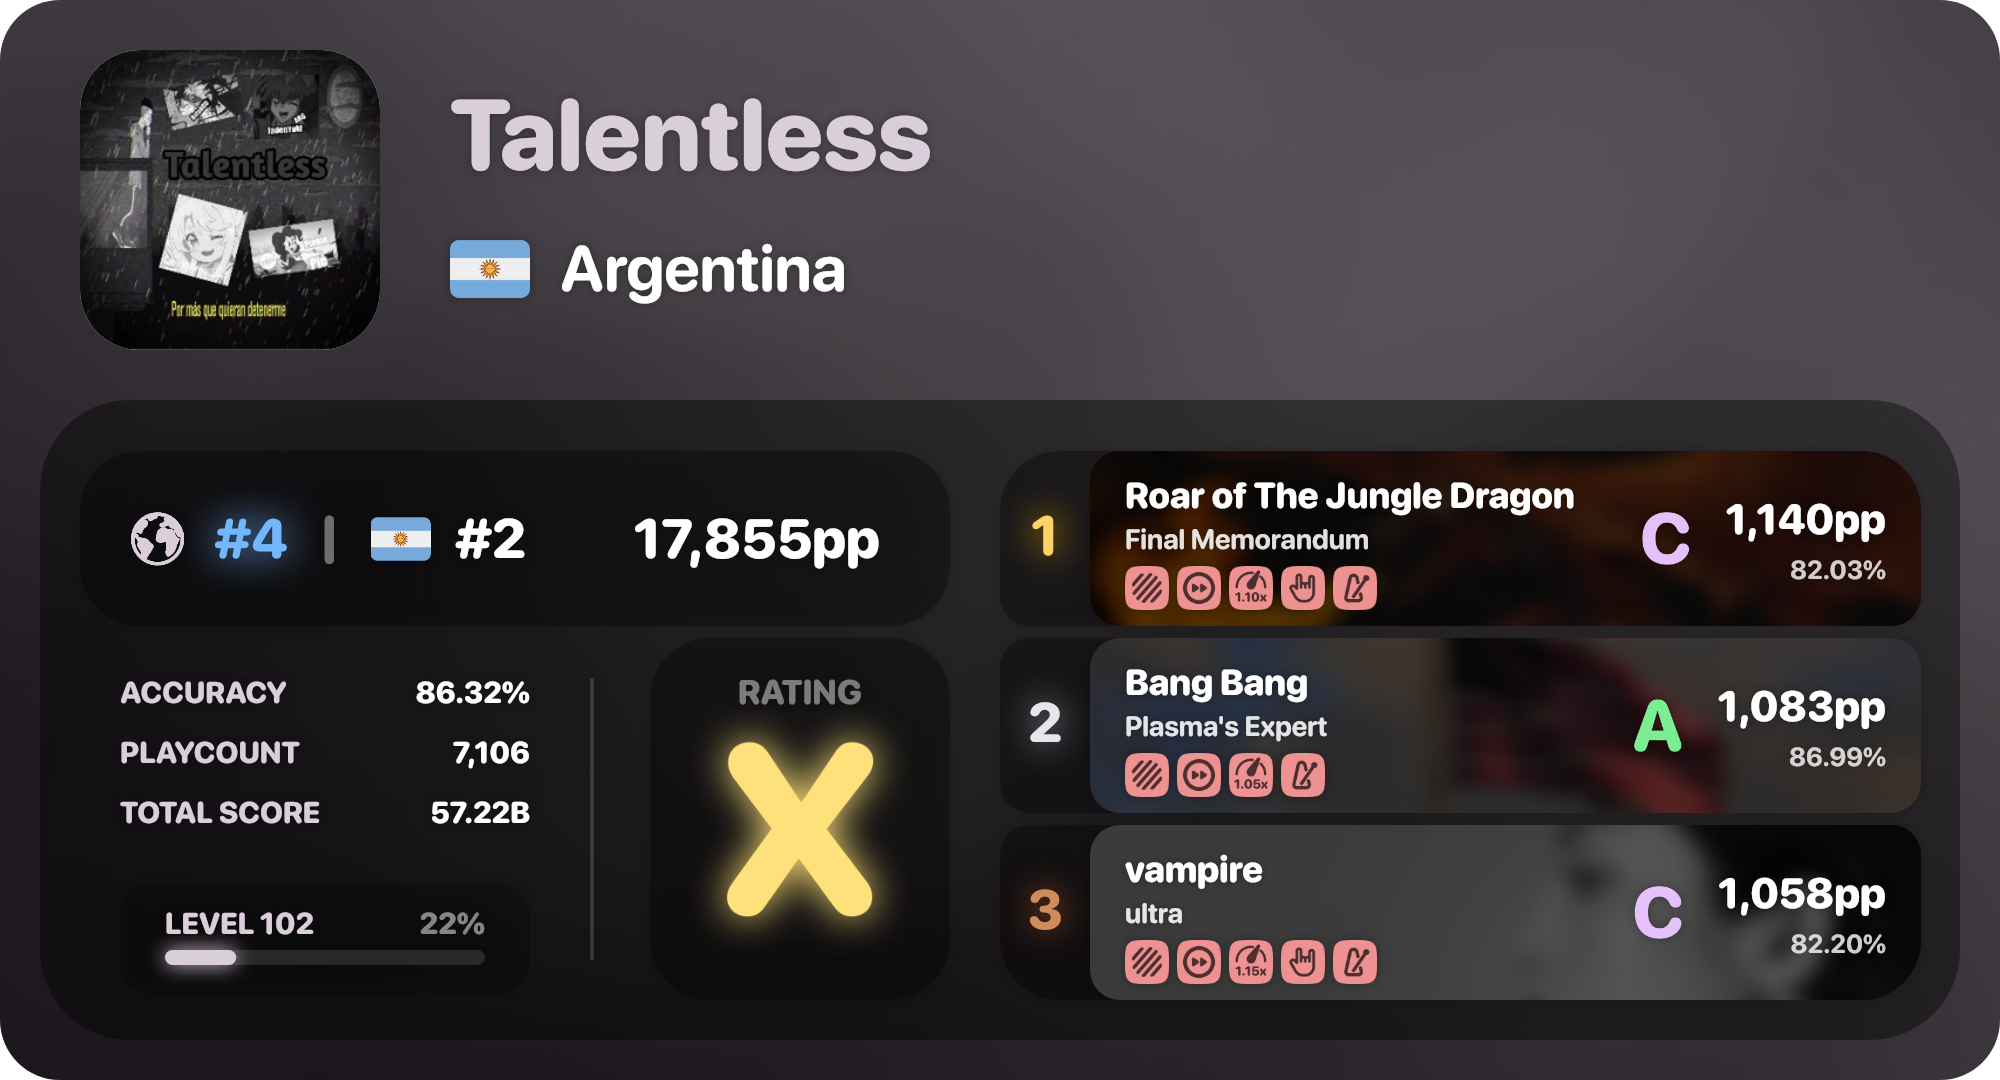
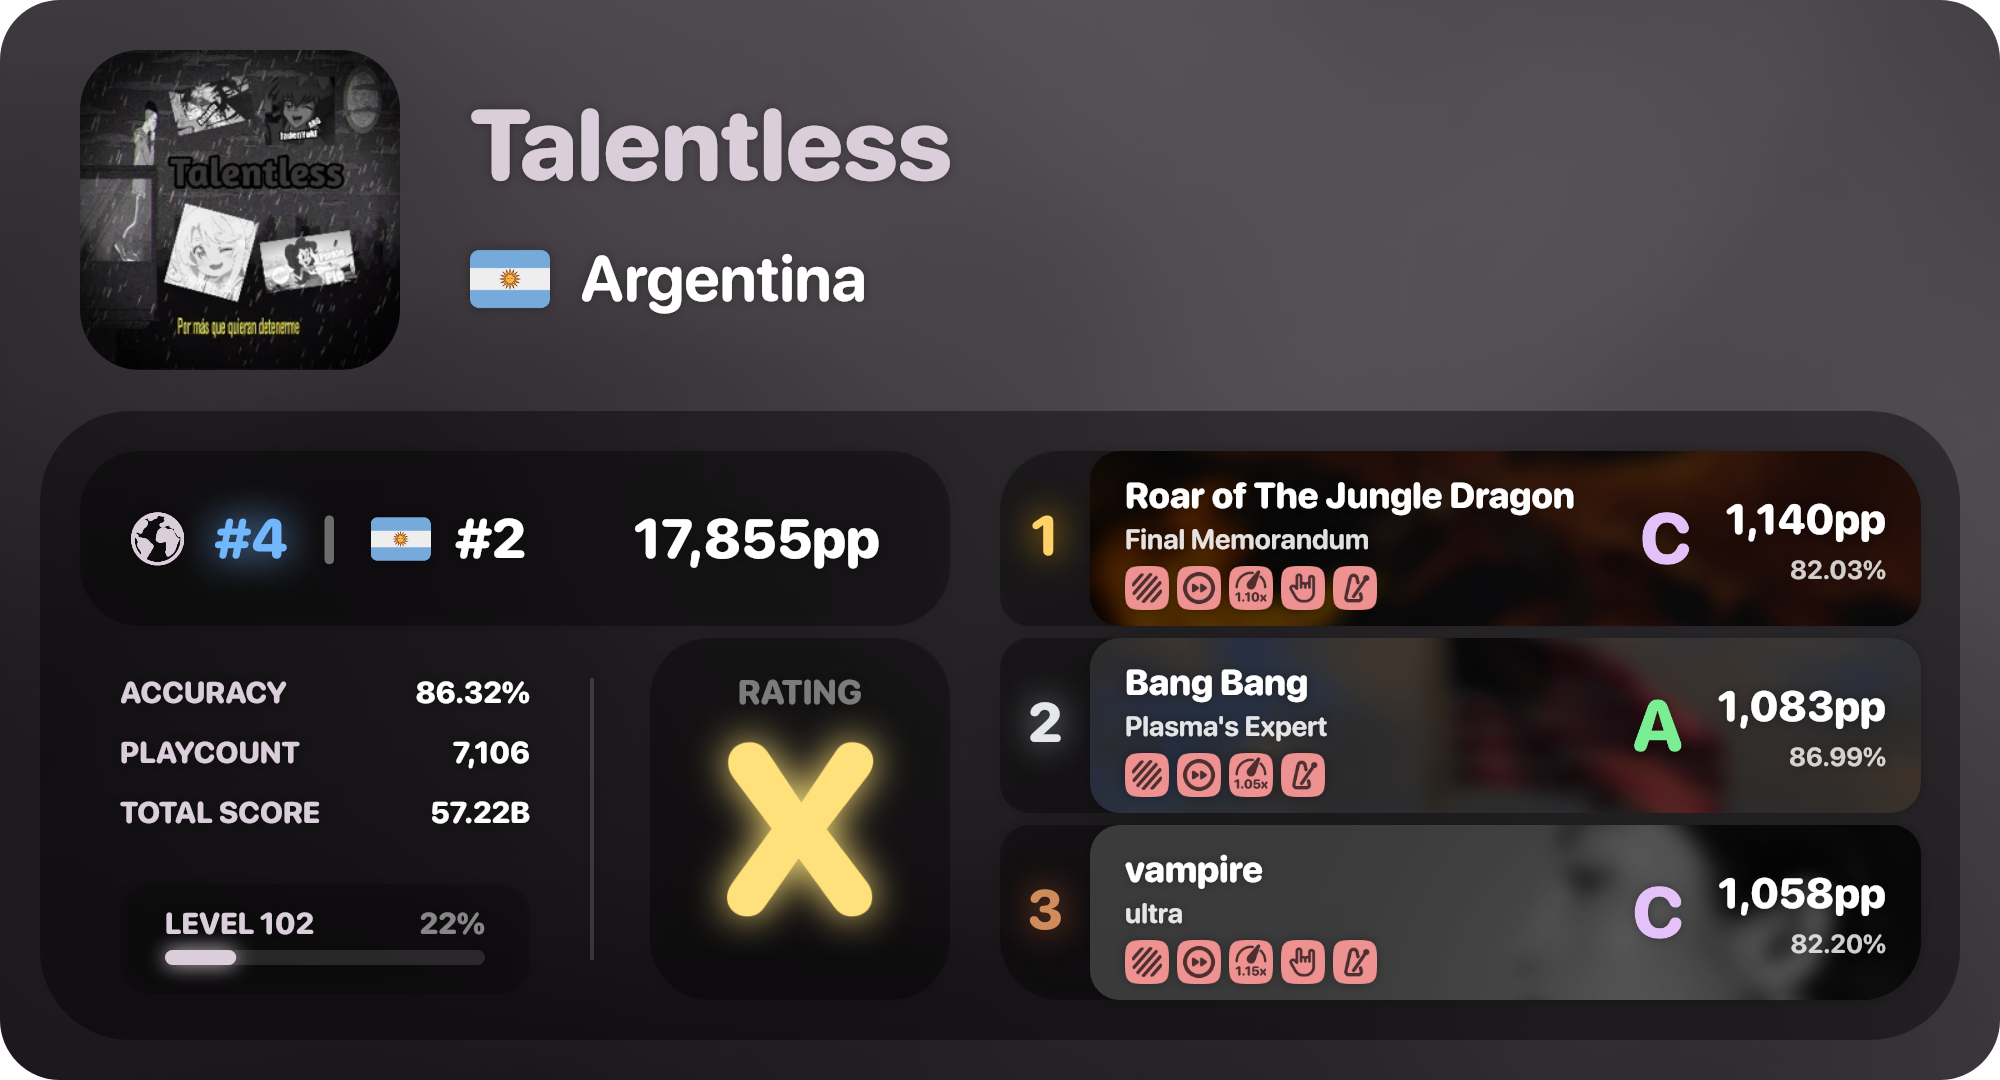
fixed alignment issue in osu-droid-card profile picture

Changed region(s): [[0.031, 0.0306, 0.496, 0.3667], [0.341, 0.3667, 0.961, 0.3972], [0.961, 0.3972, 0.992, 0.4278]]

diff --git a/packages/osu-droid-card/src/functions/render.ts b/packages/osu-droid-card/src/functions/render.ts
@@ -122,9 +122,9 @@ export async function render(user: DroidUser, beatmaps?: MapInfo[]) {
   // draw background of second section
   ctx.fillStyle = 'rgba(0,0,0,0.4)';
   const bg_x = 40;
-  const bg_y = 400;
+  const bg_y = 411;
   const bg_width = 1920;
-  const bg_height = 640;
+  const bg_height = 629;
   const bg_radius = 90;
   CanvasHelper.roundFillRect(ctx, bg_x, bg_y, bg_width, bg_height, bg_radius);
 
@@ -136,7 +136,7 @@ export async function render(user: DroidUser, beatmaps?: MapInfo[]) {
   // CanvasHelper.roundFillRect(ctx, bg_x, bg_y, bg_width, bg_height, bg_radius);
 
   // draw avatar
-  CanvasHelper.drawRoundedImage(ctx, avatar, 80, 50, 300, 300, 60);
+  CanvasHelper.drawRoundedImage(ctx, avatar, 80, 50, 320, 320, 60);
 
   // shadow
   ctx.shadowBlur = 10;
@@ -147,16 +147,16 @@ export async function render(user: DroidUser, beatmaps?: MapInfo[]) {
   ctx.fillStyle = accent;
   ctx.font = '100px Title';
 
-  ctx.fillText(user.username, 450, 90);
+  ctx.fillText(user.username, 470, 100);
 
   // draw flag and country
-  ctx.drawImage(flag, 450, 229, 80, 80);
+  ctx.drawImage(flag, 470, 239, 80, 80);
   ctx.fillStyle = '#FFFFFF';
   ctx.font = '64px Subtitle';
   const country = user.country
     ? new Intl.DisplayNames(['en'], { type: 'region' }).of(user.country.toUpperCase())
     : 'Unknown';
-  ctx.fillText(country || 'Unknown', 560, 240);
+  ctx.fillText(country || 'Unknown', 580, 250);
 
   // draw rectangle of ranks and pp
   const ranking_x = 80;

diff --git a/packages/osu-droid-card/README.md b/packages/osu-droid-card/README.md
@@ -32,8 +32,4 @@ writeFileSync(`${user.id}.png`, buffer);
 
 ## examples
 
-<img height="250" alt="image" src="./examples/floemiauwu.png" />
-<img height="250" alt="image" src="./examples/John_Droid.png" />
-<img height="250" alt="image" src="./examples/Kyshi.png" />
-<img height="250" alt="image" src="./examples/Talentless.png" />
-<img height="250" alt="image" src="./examples/bafplayer101.png" />
+<img height="250" alt="image" src="./examples/floemiauwu.png" /> <img height="250" alt="image" src="./examples/John_Droid.png" /> <img height="250" alt="image" src="./examples/Kyshi.png" /> <img height="250" alt="image" src="./examples/Talentless.png" /> <img height="250" alt="image" src="./examples/bafplayer101.png" /> <img height="250" alt="image" src="./examples/NotTiano99.png" />

diff --git a/README.md b/README.md
@@ -6,3 +6,4 @@
 | [`osu-droid-api`](./packages/osu-droid-api)       | A basic wrapper for the osu!droid Public API, written in TypeScript.          |
 | [`osu-droid-rx-api`](./packages/osu-droid-rx-api) | A basic wrapper for the osudroid!rx API, written in TypeScript.               |
 | [`osu-droid-tools`](./packages/osu-droid-tools)   | A module that turns osu!droid Public API responses into functional instances. |
+| [`osu-droid-card`](./packages/osu-droid-tools)    | A module that creates a profile card of an osu!droid user.                    |
